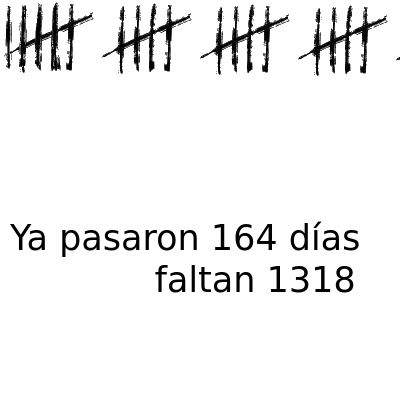
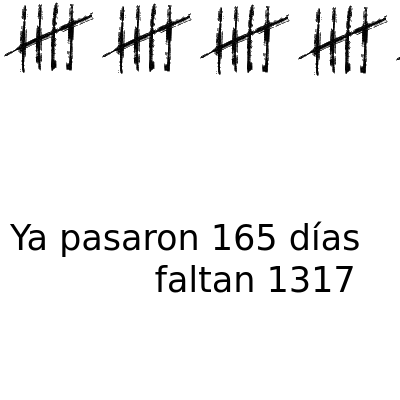
deploy: 28882f26f23b9f53dac6c4991168e610486d0e44

Changed region(s): [[0.0, 0.0, 0.15, 0.18], [0.84, 0.66, 0.9, 0.75], [0.63, 0.54, 0.69, 0.63]]

diff --git a/index.html b/index.html
@@ -3,19 +3,19 @@
   <head>
     <meta charset='utf-8'>
     <meta http-equiv='X-UA-Compatible' content='IE=edge'>
-    <title>Ya pasaron 164 días y faltan 1318</title>
-    <meta name="description" content="Ya pasaron 164 días y faltan 1318">
-    <meta itemprop="name" content="Ya pasaron 164 días y faltan 1318">
-    <meta itemprop="description" content="Ya pasaron 164 días y faltan 1318">
+    <title>Ya pasaron 165 días y faltan 1317</title>
+    <meta name="description" content="Ya pasaron 165 días y faltan 1317">
+    <meta itemprop="name" content="Ya pasaron 165 días y faltan 1317">
+    <meta itemprop="description" content="Ya pasaron 165 días y faltan 1317">
     <meta name="twitter:card" content="summary">
-    <meta name="twitter:title" content="Ya pasaron 164 días y faltan 1318">
-    <meta name="twitter:description" content="Ya pasaron 164 días y faltan 1318">
+    <meta name="twitter:title" content="Ya pasaron 165 días y faltan 1317">
+    <meta name="twitter:description" content="Ya pasaron 165 días y faltan 1317">
     <meta name="twitter:creator" content="@FloriusWasTaken">
     <meta name="twitter:image" content="https://pasaron.meme.ar/capture.png">
-    <meta property="og:title" content="Ya pasaron 164 días y faltan 1318">
-    <meta property="og:description" content="Ya pasaron 164 días y faltan 1318">
+    <meta property="og:title" content="Ya pasaron 165 días y faltan 1317">
+    <meta property="og:description" content="Ya pasaron 165 días y faltan 1317">
     <meta property="og:url" content="https://pasaron.meme.ar">
-    <meta property="og:site_name" content="Ya pasaron 164 días y faltan 1318">
+    <meta property="og:site_name" content="Ya pasaron 165 días y faltan 1317">
     <meta property="og:type" content="website">
     <meta property="og:image" content="https://pasaron.meme.ar/capture.png">
     <meta name="theme-color" content="#dc143c">
@@ -69,18 +69,16 @@
         padding: 0;
       }
     </style>
-    <title>Ya pasaron 164 días y faltan 1318</title>
+    <title>Ya pasaron 165 días y faltan 1317</title>
   </head>
   <body>
     <div id="main">
-      <img src="img/5.png"/><img src="img/5.png"/><img src="img/5.png"/><img src="img/5.png"/><img src="img/5.png"/><img src="img/5.png"/><img src="img/5.png"/><img src="img/5.png"/><img src="img/5.png"/><img src="img/5.png"/><img src="img/5.png"/><img src="img/5.png"/><img src="img/5.png"/><img src="img/5.png"/><img src="img/5.png"/><img src="img/5.png"/><img src="img/5.png"/><img src="img/5.png"/><img src="img/5.png"/><img src="img/5.png"/><img src="img/5.png"/><img src="img/5.png"/><img src="img/5.png"/><img src="img/5.png"/><img src="img/5.png"/><img src="img/5.png"/><img src="img/5.png"/><img src="img/5.png"/><img src="img/5.png"/><img src="img/5.png"/><img src="img/5.png"/><img src="img/5.png"/>
-      
-        <img src="img/4.png"/>
+      <img src="img/5.png"/><img src="img/5.png"/><img src="img/5.png"/><img src="img/5.png"/><img src="img/5.png"/><img src="img/5.png"/><img src="img/5.png"/><img src="img/5.png"/><img src="img/5.png"/><img src="img/5.png"/><img src="img/5.png"/><img src="img/5.png"/><img src="img/5.png"/><img src="img/5.png"/><img src="img/5.png"/><img src="img/5.png"/><img src="img/5.png"/><img src="img/5.png"/><img src="img/5.png"/><img src="img/5.png"/><img src="img/5.png"/><img src="img/5.png"/><img src="img/5.png"/><img src="img/5.png"/><img src="img/5.png"/><img src="img/5.png"/><img src="img/5.png"/><img src="img/5.png"/><img src="img/5.png"/><img src="img/5.png"/><img src="img/5.png"/><img src="img/5.png"/><img src="img/5.png"/>
       
     </div>
     <footer id="footer">
       <marquee id="marquee" class="is-vertical-align">
-        Ya pasaron 164 días y faltan 1318
+        Ya pasaron 165 días y faltan 1317
       </marquee>
       <ul>
         <li>
